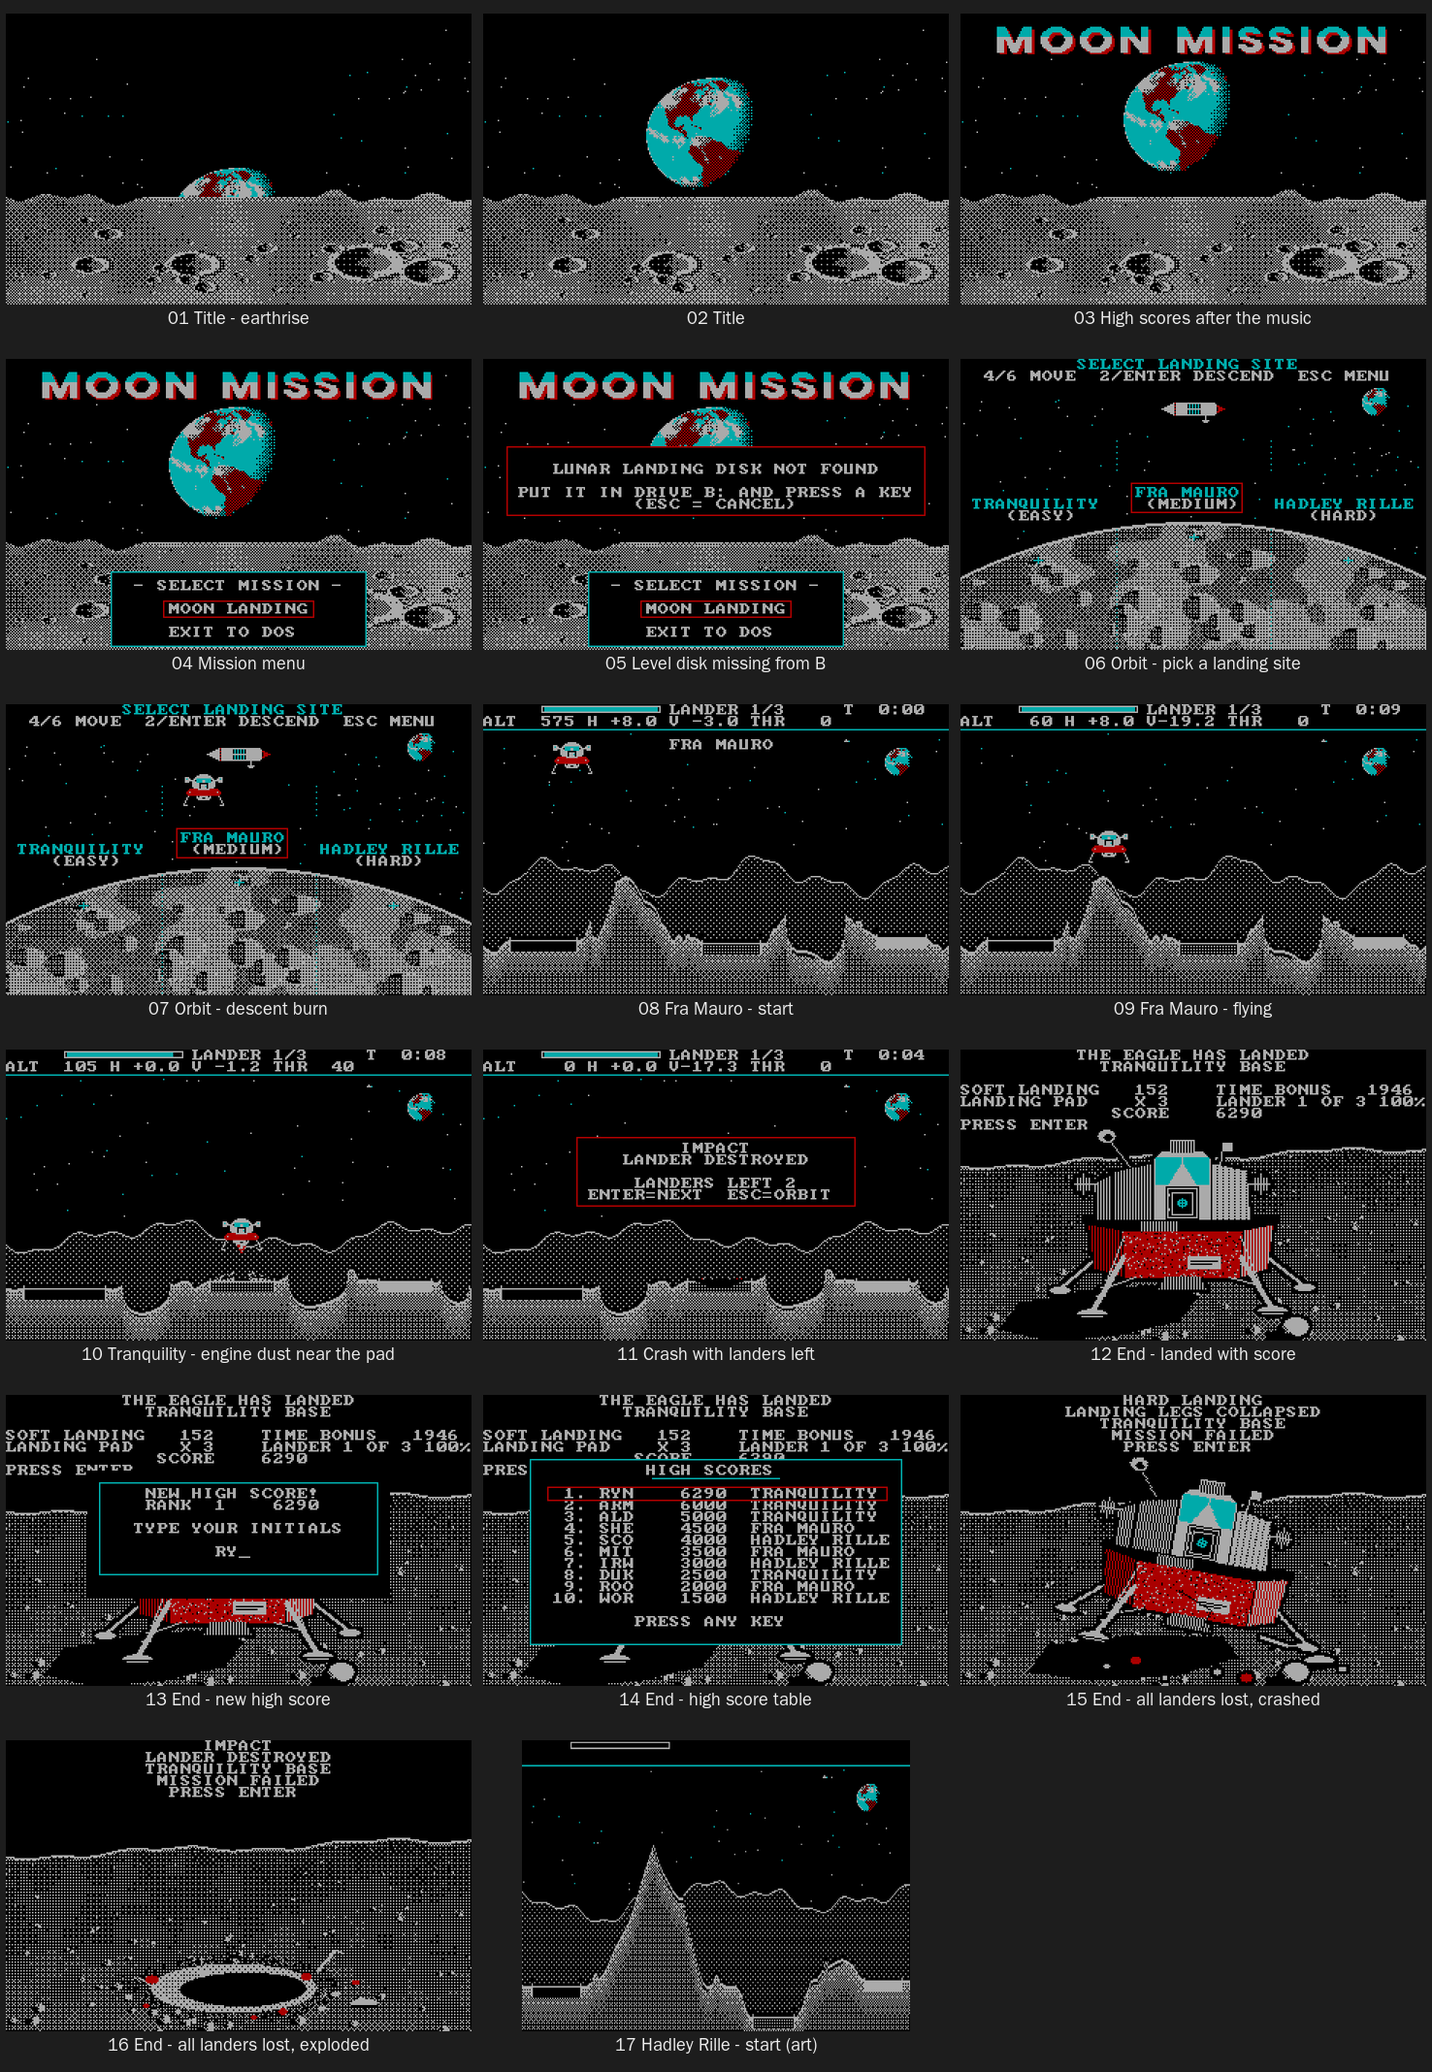
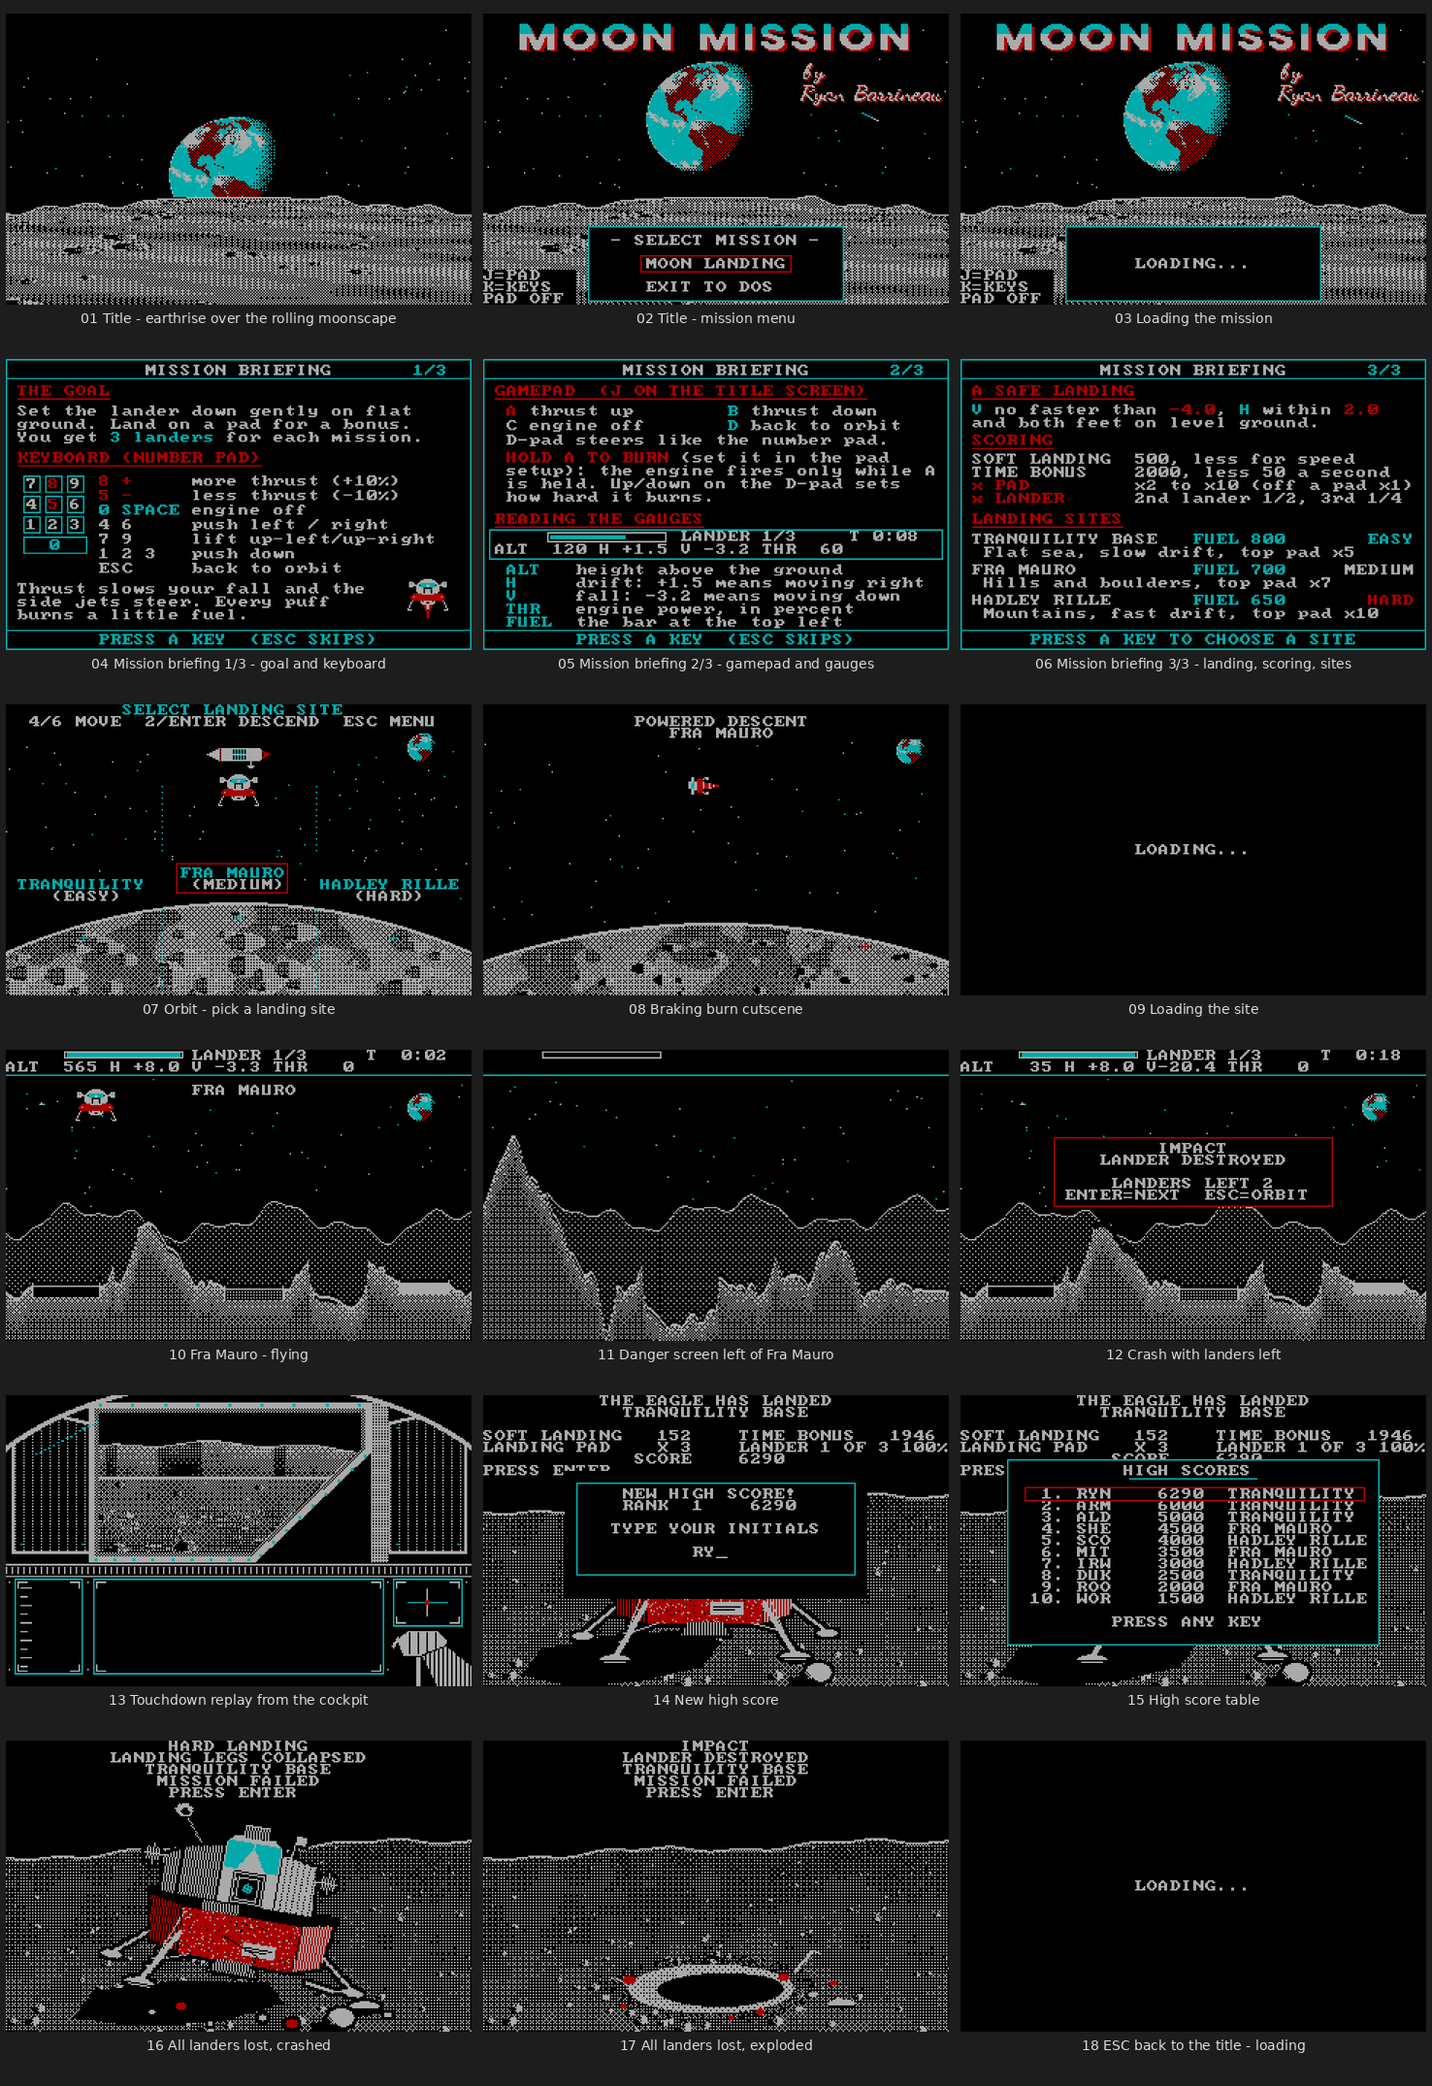
README: rolling earthrise, briefing, gauges, hold-to-burn, loading
- New title GIF: the earthrise over the rolling moonscape with the
  credit.
- docs/screens.png redone: 18 screens, including the briefing pages, the
  braking burn, the danger screen, the cockpit replay and the loading
  screens.
- How to play: the briefing, the LOADING notices, every flight key,
  what ALT/H/V/THR mean, and the safe landing limits.
- Gamepad: the Hold A to burn setting and PAD HOLD on the title.
- Files and building: ROLL.DAT/ROLL.BIN, asm/roll.asm,
  tools/mkrollmoon.py, tools/mkbrief.py, BRIEF1-3.RLE, CREDIT.SPR and
  the font.
- Conventions: LOADING plus keyboard flush, MOON's 64K block, and TIMER
  overflow.
- Single-drive and Tandy palette are no longer marked pending.

Claude-Session: https://claude.ai/code/session_01HSeB1eEUBM7vDXhp8qRXCy

diff --git a/README.md b/README.md
@@ -1,6 +1,6 @@
 # Moon Mission (GW-BASIC)
 
-A space game written in GW-BASIC for a VTech Laser XT (8088, CGA), played from a real floppy in A: and a Gotek floppy emulator in B:.
+By Ryan Barrineau. A space game written in GW-BASIC for a VTech Laser XT (8088, CGA), played from a real floppy in A: and a Gotek floppy emulator in B:.
 
 ![Title sequence](earthrise_preview.gif)
 
@@ -21,11 +21,15 @@ Boot from the START floppy in A: with the LUNAR LANDING disk in B:. The game sta
 
 One floppy drive is fine too: the game notices (BIOS equipment word) and asks you to swap disks in A: when it needs the other one, going into the landing, to save a high score, and going back to the menu. On a Tandy 1000 the game sets the Tandy's own palette registers so the colors match the CGA (cyan, red, grey).
 
-The title plays an Earthrise to *Also sprach Zarathustra*, then shows the high scores. Any key goes to the mission menu. If the level disk isn't in B:, the menu asks for it instead of stopping.
+The title plays an Earthrise to *Also sprach Zarathustra*: the Moon's surface rolls toward you while the Earth climbs over the horizon, then MOON MISSION and "by Ryan Barrineau" appear. The ground keeps rolling under the menu. After the music it shows the high scores. Any key goes to the mission menu. If the level disk isn't in B:, the menu asks for it instead of stopping.
+
+Anything slow shows LOADING... (starting up, loading the mission, the braking burn, a new landing site, going back to the title), and keys pressed during a load are thrown away, so a stray press can't skip the braking burn, fire a thruster or pick a menu item.
+
+**Mission briefing.** Starting Moon Landing shows three pages before the landing site screen: the goal and the keyboard, the gamepad and how to read the gauges, then a safe landing, scoring and the three sites. Any key turns the page; Esc skips the rest. It shows each time the mission is started from the menu.
 
 **Orbit (choose a site).** The Moon's horizon is split into three zones: Tranquility (Easy), Fra Mauro (Medium), Hadley Rille (Hard). 4/6 or the arrow keys drift left and right (no fuel used, no points). 2, down arrow or Enter fires the descent. Esc returns to the menu.
 
-**Braking burn.** A short hands-off cutscene: zoomed far out, the small lander flies over the Moon engine-first to slow down (POWERED DESCENT), swings upright (PITCHOVER) and heads for the site marked on the limb (APPROACH PHASE). No fuel used. Any key skips it.
+**Braking burn.** A short hands-off cutscene: zoomed far out, the small lander flies over the Moon engine-first to slow down (POWERED DESCENT), swings upright (PITCHOVER) and heads for the site marked on the limb (APPROACH PHASE). No fuel used. Any key skips it (keys pressed while it loads don't count).
 
 **Landing (keypad, NumLock on).**
 
@@ -33,12 +37,18 @@ The title plays an Earthrise to *Also sprach Zarathustra*, then shows the high s
 |---|---|
 | 8 / 5 (or grey + / -) | Main engine throttle up / down, 10% a press |
 | 0 or Space | Main engine off |
-| 7 9 4 6 1 2 3 | Maneuvering thrusters (hold for a steady burn) |
+| 4 6 | Push left / right |
+| 7 9 | Lift up-left / up-right |
+| 1 2 3 | Push down |
 | Esc | Back to orbit |
+
+The arrow keys and the keypad with NumLock off work the same as the number keys.
+
+**The gauges.** The top line shows the fuel bar, LANDER n/3 and the mission time. Under it: **ALT** height above the ground, **H** sideways speed (+1.5 means moving right), **V** up/down speed (-3.2 means moving down) and **THR** engine power in percent.
 
 No walls at the top or sides. Climb off the top and the lander hides while a marker on the top edge shows where it is (the HUD keeps the altitude); gravity brings it back, and fuel limits how far you can go. Fly off the left or right edge and the screen flips to danger ground on that side: boulders, crevasses and steep slopes with nowhere safe to land, ending in a natural wall (a crater rim, a ridge, Mount Hadley's flank). Fly back to return to the site.
 
-Land on a flat patch slowly and nearly level. Touching down too fast, drifting, landing on a slope or flying into terrain all crash, in five different ways (hard landing, impact, tipping over, sliding off a rim, and a rare runaway thruster).
+Land on a flat patch slowly and nearly level: V no faster than -4.0, H within 2.0, and both feet on level ground. Touching down too fast, drifting, landing on a slope or flying into terrain all crash, in five different ways (hard landing, impact, tipping over, sliding off a rim, and a rare runaway thruster).
 
 ## Scoring
 Each level gives 3 landers. A crash with landers left shows a short report and the next lander starts. Losing all three ends the level with a picture: the wreck (last one crashed) or a crater (last one exploded).
@@ -62,15 +72,21 @@ A fast pilot does best on the far, high-paying pad; a slower one often scores mo
 ## Files
 | File | What it is |
 |---|---|
-| `src/MOON.BAS` | START disk: title (Earthrise, music, twinkling stars, shooting stars), high scores, mission menu |
-| `src/LANDER.BAS` | Moon Landing: orbit site selection, landing physics, crashes, scoring, high score entry, end pictures |
+| `src/MOON.BAS` | START disk: title (Earthrise over a rolling moonscape, music, twinkling stars, shooting stars), high scores, mission menu, gamepad setup |
+| `src/LANDER.BAS` | Moon Landing: mission briefing, orbit site selection, braking burn, landing physics, crashes, scoring, high score entry, end pictures |
 | `src/MOONPAL.BAS` | CGA palette test scene (not on the disks) |
 | `assets/*.PIC` | `BLOAD` images of CGA video RAM: title moon, orbit, the three landing sites, landed / wreck / crater pictures |
 | `assets/*.MAP` | Collision maps for each site: ground height per column, and the highest ground under the lander's footprint |
-| `assets/*.SPR` | `GET`/`PUT` sprites: lander and mask, engine flames, thruster puffs, crash poses, dust plumes, Earth, title |
+| `assets/*.SPR` | `GET`/`PUT` sprites: lander and mask, engine flames, thruster puffs, crash poses, dust plumes, Earth, title, the "by Ryan Barrineau" credit (`CREDIT.SPR`) |
+| `assets/ROLL.DAT`, `assets/ROLL.BIN` | The title's rolling moonscape: the pre-drawn ground in 10 depth bands, the skyline masks and the Earth (`ROLL.DAT`, 54K), and the routine that draws each frame (`ROLL.BIN`). START disk |
+| `assets/BRIEF1.RLE` .. `BRIEF3.RLE` | The three mission briefing pages. LANDING disk |
+| `assets/fonts/` | Dancing Script (SIL Open Font License, `OFL.txt`), the script used for the credit |
 | `asm/laserchk.asm` | `LASERCHK.COM`: exits with ERRORLEVEL 1 on a Laser XT (looks for "Central Point" in the BIOS ROM) |
 | `tools/mkdisk.sh` | Builds `START.IMG` and `LANDING.IMG` (needs your own DOS disk, GW-BASIC and SPEED.COM in `dos/`) |
-| `tools/mkart.py`, `tools/earth.py` | Title art: cratered moon, starfield, title, the lit Earth from real coastline data (`pip install global-land-mask`) |
+| `tools/mkart.py`, `tools/earth.py` | Title art: cratered moon with a gently curved horizon, starfield, title, the "by Ryan Barrineau" credit, the lit Earth from real coastline data (`pip install global-land-mask`) |
+| `tools/mkrollmoon.py` | The rolling moonscape: `ROLL.DAT` and `ROLL.BIN` (assembles `asm/roll.asm` with NASM). Given a GIF name it also writes a preview drawn by a Python copy of the machine code |
+| `asm/roll.asm` | `ROLL.BIN`, the 8086 routine MOON `CALL`s once per clock tick: moves the ground one step toward the viewer, draws the rising Earth, keeps the stars and leaves the menu box and pad hints alone |
+| `tools/mkbrief.py` | The mission briefing pages, drawn with the CGA font (from PC-BASIC) and the game's own lander sprites |
 | `tools/mklevel.py`, `tools/mksites.py` | Tranquility, and Fra Mauro / Hadley Rille terrain, pads and collision maps; lander, flame and crash sprites |
 | `tools/mkorbit.py` | The orbit screen |
 | `tools/mkbrake.py` | The braking burn cutscene: `BRAKE.RLE` (scene) and `BRAKE.SPR` (small lander in four poses, each with mask and flame) |
@@ -85,7 +101,7 @@ A fast pilot does best on the far, high-paying pad; a slower one often scores mo
 | `docs/design/` | Design mockups made along the way |
 
 ## Building
-Needs Python 3 (numpy, Pillow), mtools, PC-BASIC (`pip install pcbasic`, used to tokenize the programs) and NASM to rebuild `asm/ckpit.asm` (`nasm -f bin asm/ckpit.asm -o build/ckpit.bin`, then `tools/mkckpit.py assets build/ckpit.bin`; add `--preview` for GIFs of each site). Put your own `DISK01.IMG` (MS-DOS 3.30 disk 1), `GWBASIC.EXE` and the Laser XT `SPEED.COM` in `dos/`, then run `tools/mkdisk.sh`. The images land in `disks/`.
+Needs Python 3 (numpy, Pillow), mtools, PC-BASIC (`pip install pcbasic`, used to tokenize the programs and for the briefing font) and NASM to rebuild `asm/ckpit.asm` (`nasm -f bin asm/ckpit.asm -o build/ckpit.bin`, then `tools/mkckpit.py assets build/ckpit.bin`; add `--preview` for GIFs of each site). After changing the title art, rebuild the rolling ground with `tools/mkrollmoon.py assets` (add a GIF name for a preview). After changing the lander sprites or the briefing text, run `tools/mkbrief.py assets assets`. Put your own `DISK01.IMG` (MS-DOS 3.30 disk 1), `GWBASIC.EXE` and the Laser XT `SPEED.COM` in `dos/`, then run `tools/mkdisk.sh`. The images land in `disks/`.
 
 ## Conventions
 - Graphics: `SCREEN 1`, palette cyan / red / grey (`OUT &H3D8,&HE : OUT &H3D9,0`).
@@ -105,6 +121,9 @@ Needs Python 3 (numpy, Pillow), mtools, PC-BASIC (`pip install pcbasic`, used to
 - Every BASIC statement costs real time at 4.77 MHz (an extra line checked each frame is noticeable). Per-frame work stays minimal; ambient effects run on a one-second tick.
 - Moving things are drawn so they never smear the scene: the lander saves and restores the area under it with `GET`/`PUT`; dust is `PUT ... XOR` (drawing twice restores the ground); the module overhead and the shadow keep a copy of what they cover.
 - Load screens with the display switched off (`OUT &H3D8,&H6`) and turn it back on when drawn.
+- Anything that takes more than a moment shows LOADING... first, and the keyboard is emptied after it (`IF INKEY$ <> "" THEN` the same line), so keys pressed during the load don't act.
+- MOON asks DOS for one 64K block for the rolling ground (`ROLL.BIN` mode 0) and gives it back before `CHAIN` and on exit (mode 3), so LANDER still gets its two blocks. Without the memory the title Moon just stands still.
+- `TIMER` counts seconds since midnight (up to 86400). Check a `TIMER` difference is small before multiplying it into an integer variable, or it overflows.
 - Feed background music with small `PLAY` chunks; a full queue makes `PLAY` block.
 
 MS-DOS, GW-BASIC and SPEED.COM are not included.
@@ -118,7 +137,7 @@ The launcher stages editable sources and art into ignored `build/desktop/start` 
 
 The baseline floppy build uses PC-BASIC 2.0.8 for tokenization (`build/venv`) and the existing Tandy DOS system image. Its local copy in `dos/DISK01.IMG` has BASIC.EXE, LIB.EXE and LINK.EXE removed to make room; the original Tandy system image is unchanged. Run `PATH="$PWD/build/venv/bin:$PATH" bash tools/mkdisk.sh`. Built 360K START and LANDING images have also been copied to the Tandy collection as `usb/DSKA0023.IMG` and `usb/DSKA0024.IMG`.
 
-These remain the original **two-drive** game layout. Single-drive swapping, Tandy hardware palette handling and physical Laser XT/Tandy verification are pending. DOSBox emulation is an initial check, not proof of hardware compatibility.
+Single-drive disk swapping and the Tandy palette are in, and the game has been played on a real Laser XT and a Tandy 1000 (two drives, one drive, the gamepad). DOSBox emulation is an initial check, not proof of hardware compatibility.
 
 ## Automated compatibility checks and releases
 
@@ -135,7 +154,7 @@ docker run --init --rm -v "$PWD:/workspace" moon-ci bash -euc '
 '
 ```
 
-The emulated journey is a functional smoke test of the image contents. It does not boot DOS or validate a BIOS floppy controller. Direct image mounts in the classic Ubuntu DOSBox runner truncated mission reads in testing; directory mounts of the exact extracted files avoid that emulator path. Real disk-image boot/read tests remain separate. Successful soft landing/cockpit replay, all three terrain routes, high-score persistence, PCjr/Tandy memory limits, exact palettes, audio quality and single-drive swaps still need dedicated tests and real-hardware sign-off. Palette and disk-swap changes belong to Ryan's separate work.
+The emulated journey is a functional smoke test of the image contents. It does not boot DOS or validate a BIOS floppy controller. Direct image mounts in the classic Ubuntu DOSBox runner truncated mission reads in testing; directory mounts of the exact extracted files avoid that emulator path. Real disk-image boot/read tests remain separate. Successful soft landing/cockpit replay, all three terrain routes, high-score persistence, PCjr/Tandy memory limits, exact palettes, audio quality and single-drive swaps still need dedicated tests and real-hardware sign-off.
 
 Ryan (`LesCubistes`) triggers **Ryan prepares a release** manually in Actions and supplies a version such as `v0.1.0`. The workflow reruns the whole matrix, then creates a **draft** release for him to review and publish. There is no automatic release on pushes or tags. Its ZIP contains tokenized BASIC, art, sources, checksums and two 360K **game-only data images**; DOS and the BASIC interpreter are excluded. These data images do not boot by themselves. Runtime-containing test disks are not uploaded as release artifacts.
 
@@ -163,12 +182,12 @@ Mappings send plain number keys, so NumLock is not required. This is a digital k
 
 ## Native Gravis / standard gameport controls
 
-Press **J** at the mission menu for opt-in three-point calibration: release the direction pad, then hold up-left, then down-right, pressing Enter at each prompt. Calibration is kept through mission/menu CHAIN calls for this session. Press **K** for keyboard-only controls. The keyboard is always available; gameport polling is skipped while disabled and capped at roughly 7 reads/second while enabled. All joystick scalars are created before the existing VARPTR/BLOAD operations.
+Press **J** at the mission menu for opt-in three-point calibration: release the direction pad, then hold up-left, then down-right, pressing Enter at each prompt. The last question is **Hold A to burn? (Y/N)**. With Y, the engine fires only while A is held, at a power you set with up/down on the D-pad (or 8/5 on the keyboard); it starts at 60% and THR shows the setting. With N, each A press adds 10% like the keyboard. The bottom-left corner of the title shows PAD OFF, PAD ON or PAD HOLD. Calibration is kept through mission/menu CHAIN calls for this session. Press **K** for keyboard-only controls. The keyboard is always available; gameport polling is skipped while disabled and capped at roughly 7 reads/second while enabled. All joystick scalars are created before the existing VARPTR/BLOAD operations.
 
 | Control | Menus/orbit | Flight |
 | --- | --- | --- |
-| D-pad | Navigate/select site | Existing keypad directions; up/down adjust main throttle |
-| Red A | Confirm/descent/next | Increase main throttle |
+| D-pad | Navigate/select site | Existing keypad directions; up/down adjust main throttle (hold mode: set the burn power) |
+| Red A | Confirm/descent/next | Increase main throttle (hold mode: burn while held) |
 | Blue B | Back | Decrease main throttle |
 | Yellow C | Space | Engine off |
 | Green D | Back | Return to orbit |
